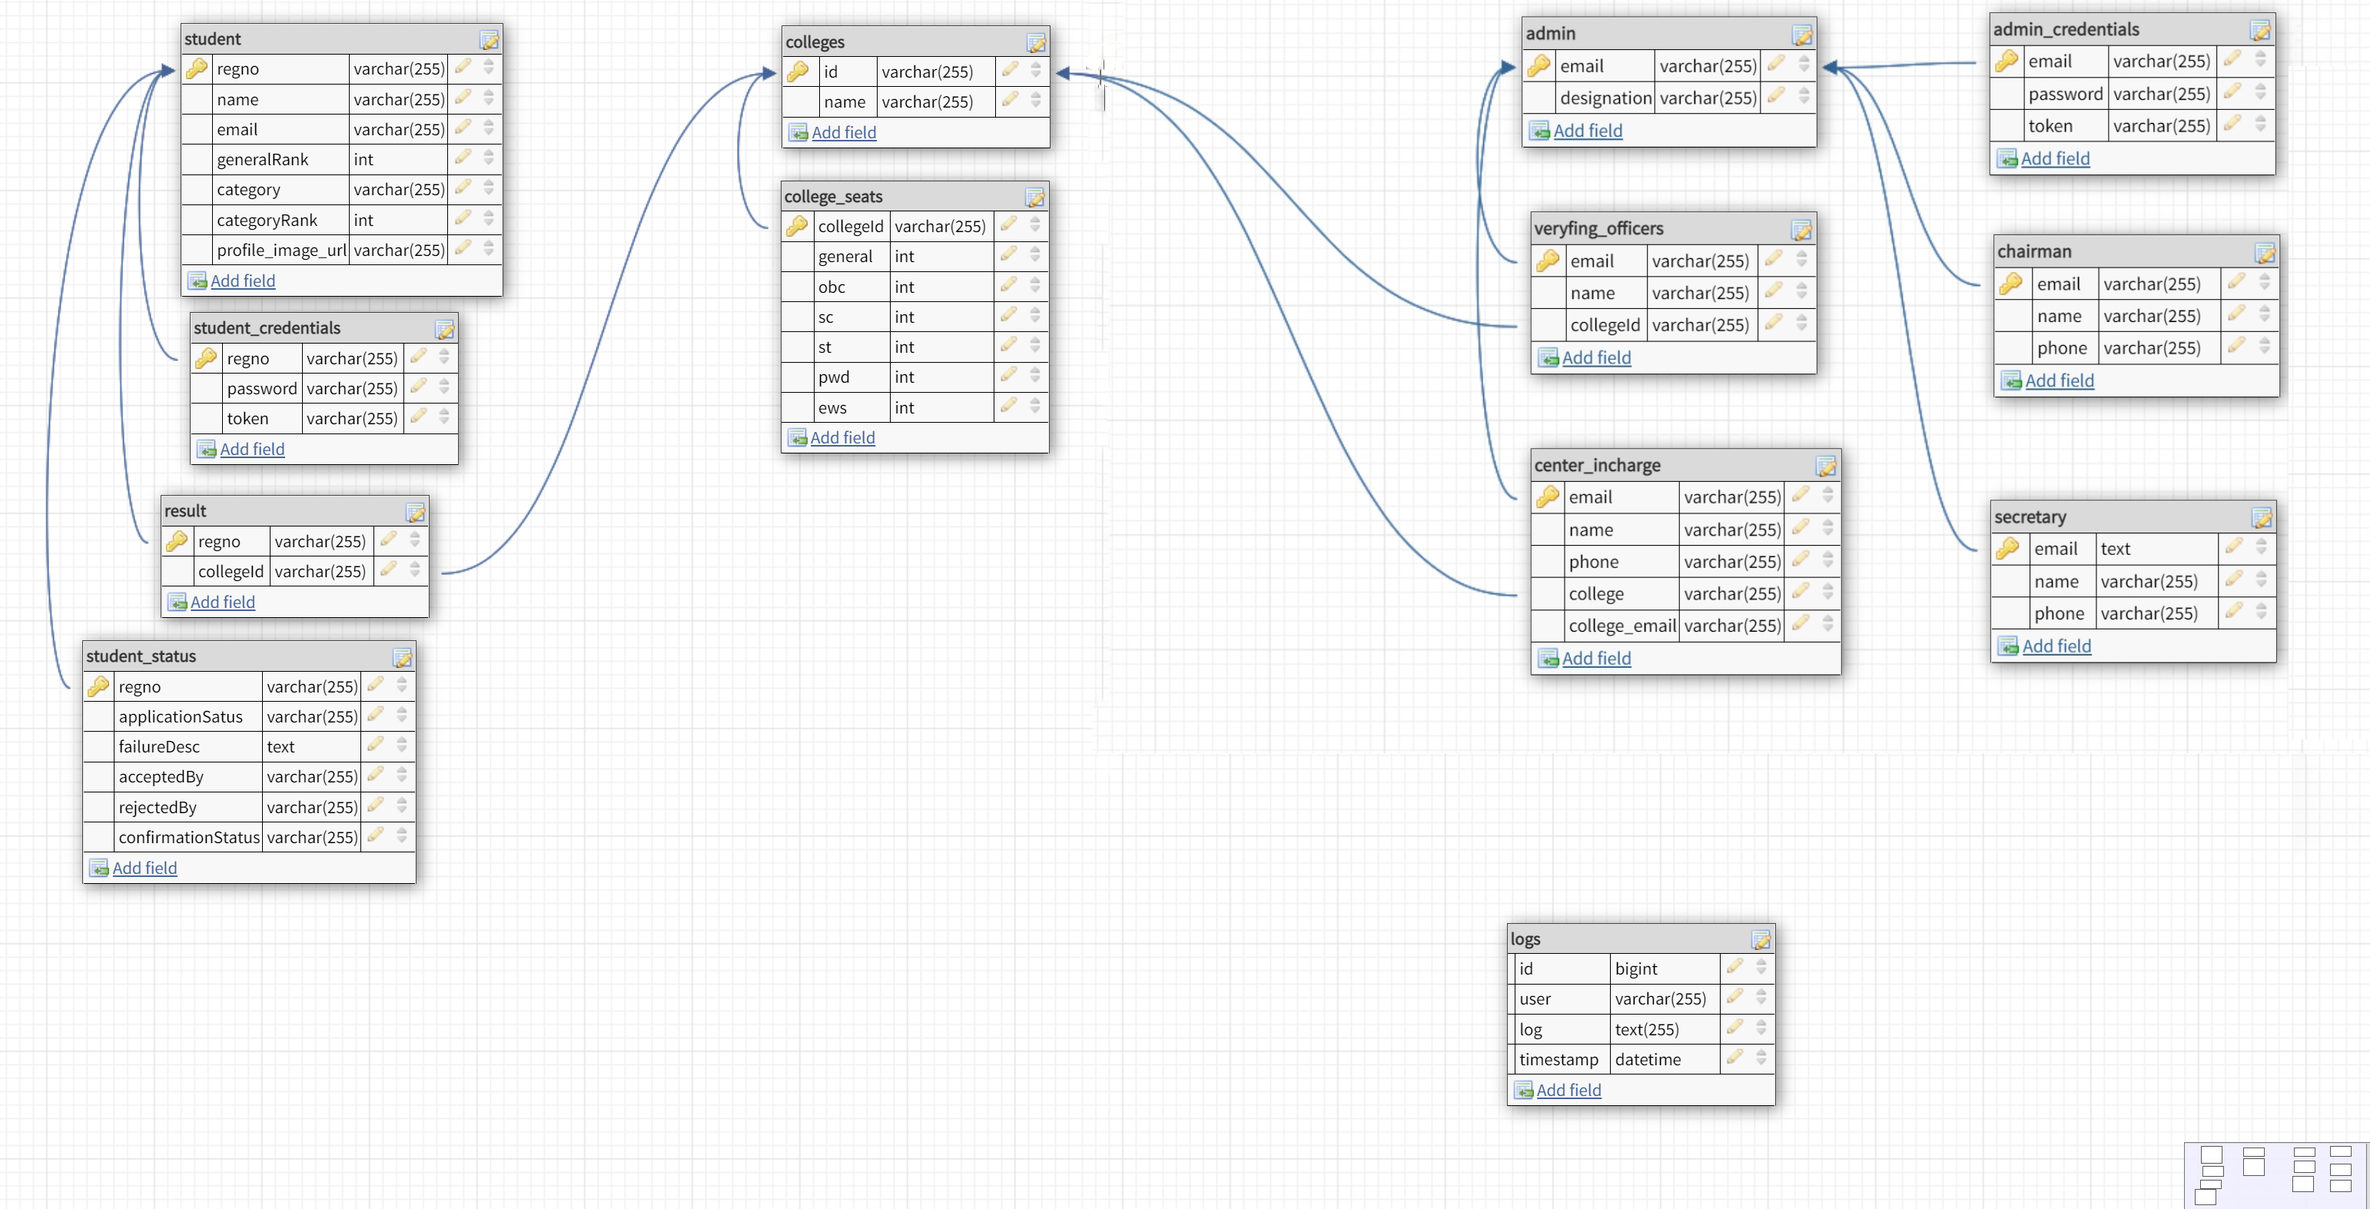
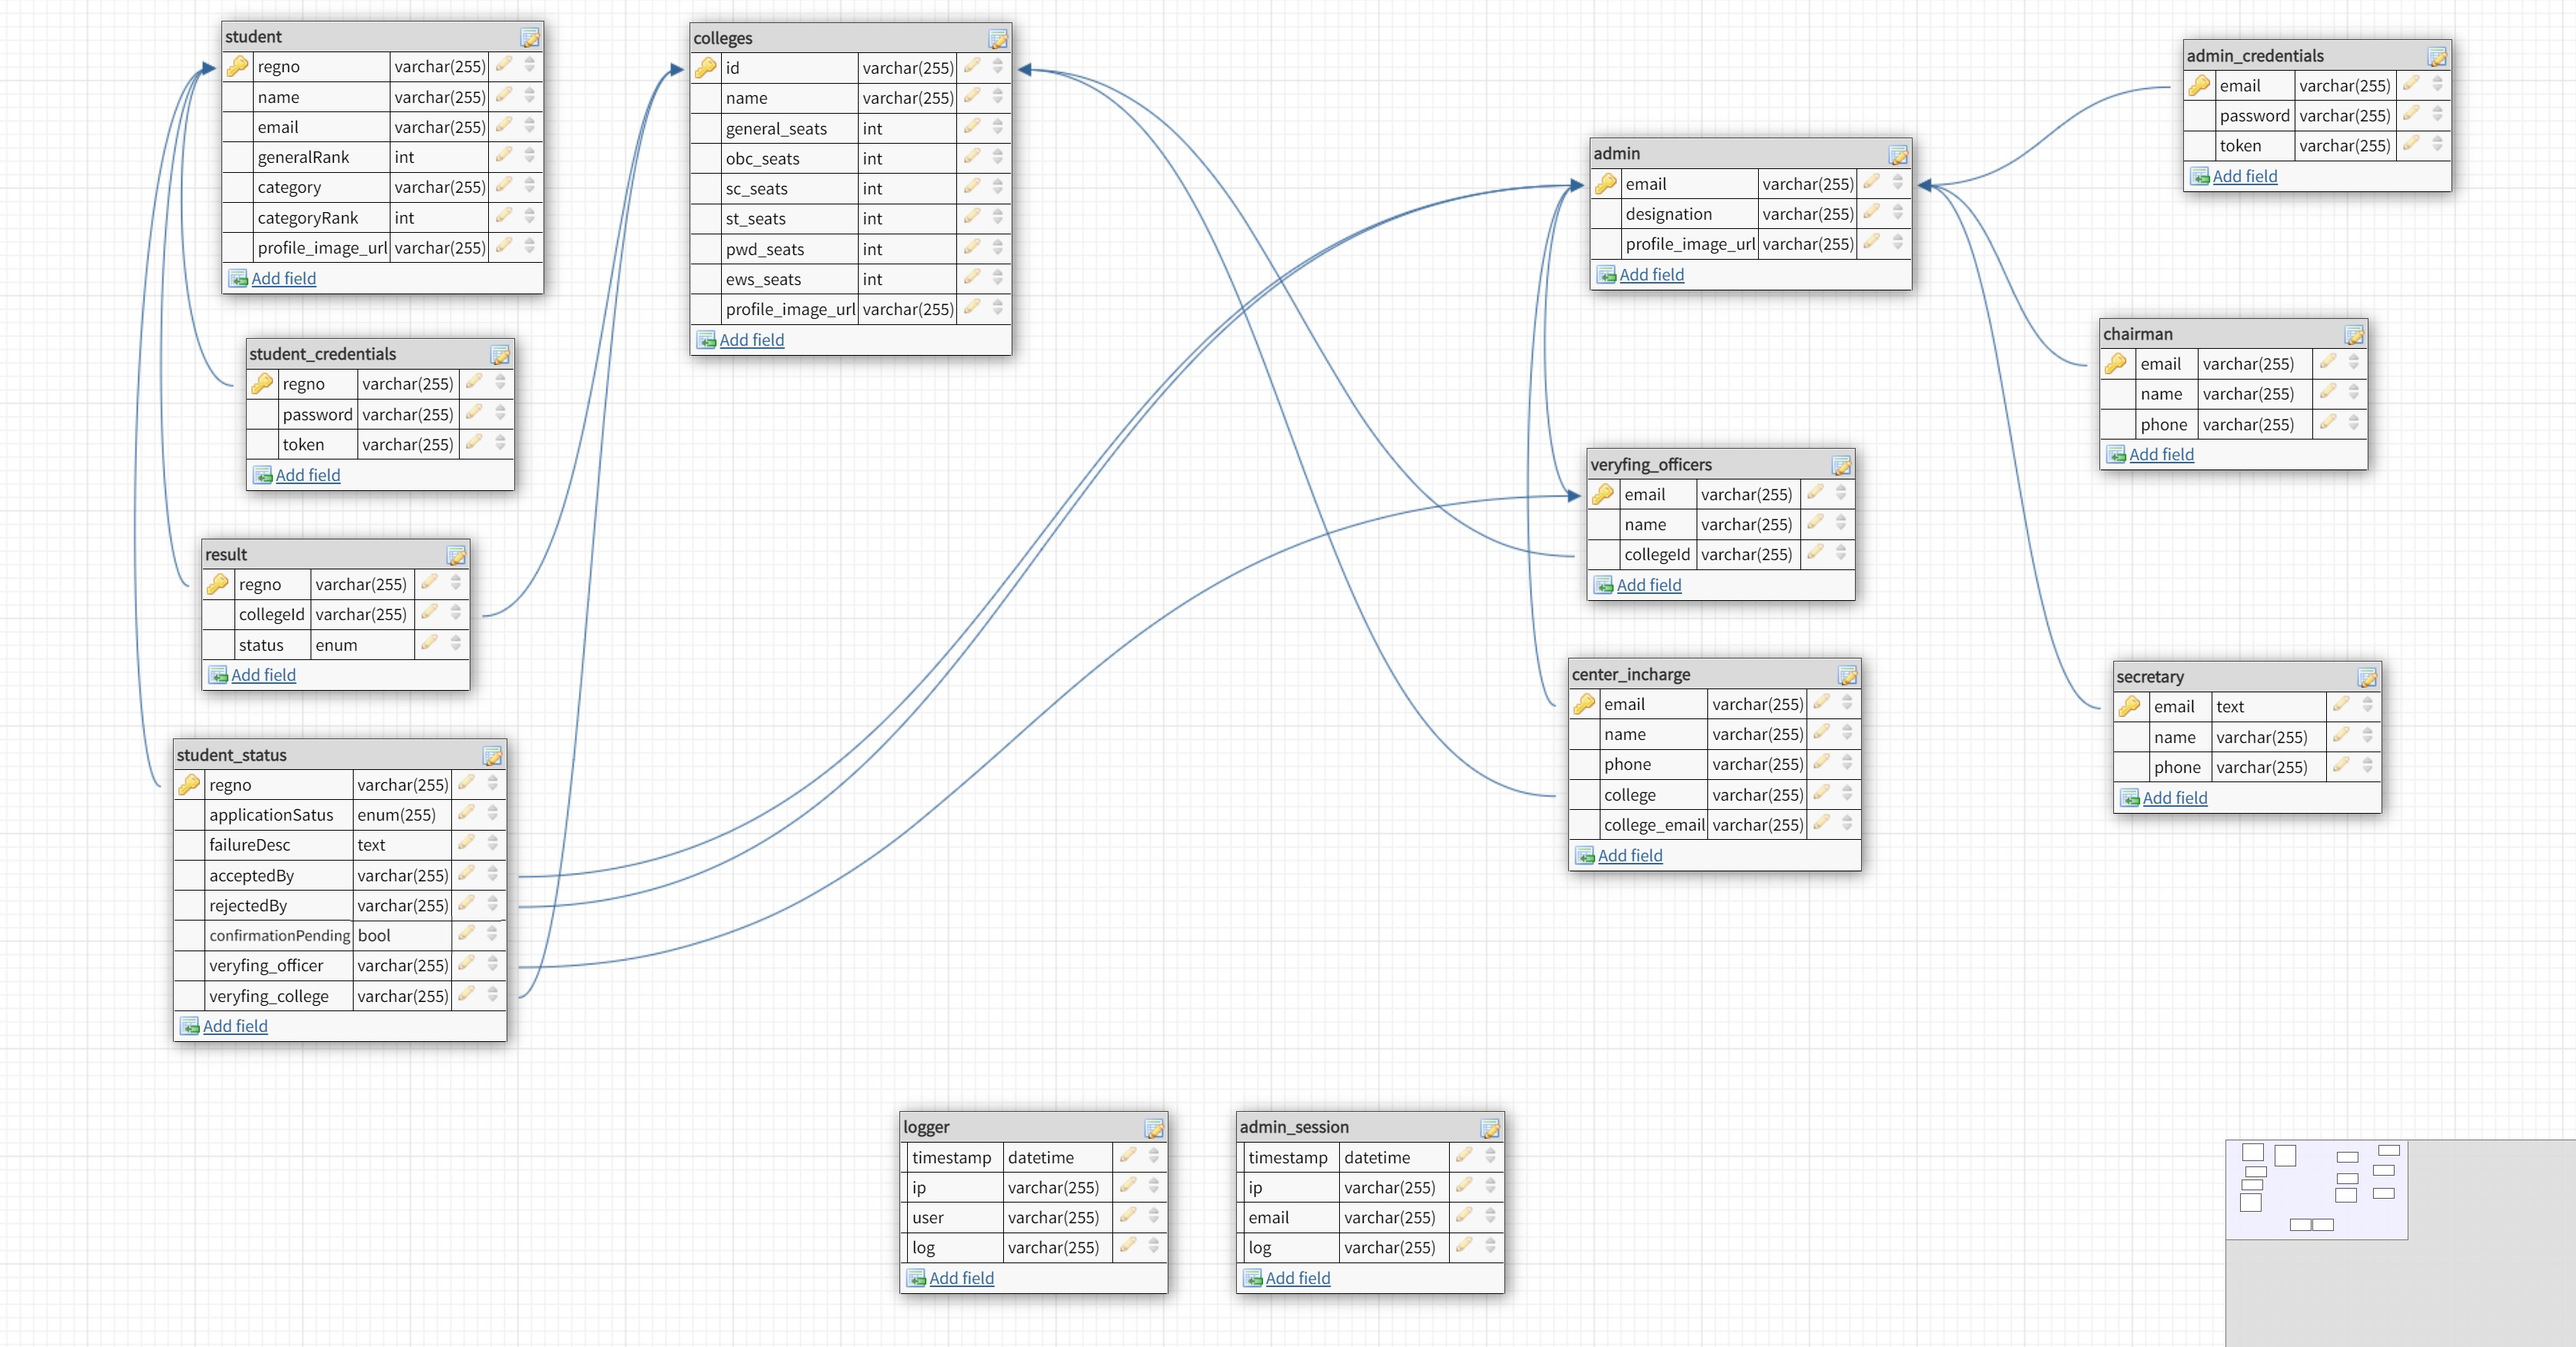
changes to student db

diff --git a/helpers/dbinit.js b/helpers/dbinit.js
@@ -4,61 +4,71 @@ const INITIALIZE_DATABASE = async () => {
   const dbInitQuery = `
 USE ${process.env.DB_USER};
 
+use u298279946_nitJsrNimcet;
+
+SET FOREIGN_KEY_CHECKS = 0;
+drop table if exists admin;
+drop table if exists admin_credentials;
+drop table if exists admin_session;
+drop table if exists logger;
+drop table if exists center_incharge;
+drop table if exists chairman;
+drop table if exists colleges;
+drop table if exists result;
+drop table if exists secretary;
+drop table if exists student;
+drop table if exists student_credentials;
+drop table if exists student_status;
+drop table if exists verifying_officers;
+SET FOREIGN_KEY_CHECKS = 1;
+
+CREATE TABLE admin_credentials (
+	email varchar(255) NOT NULL ,
+	password varchar(255) NOT NULL,
+	token varchar(255) NOT NULL,
+	PRIMARY KEY (email)
+);
+
 CREATE TABLE chairman (
 	email varchar(255) NOT NULL,
 	name varchar(255) NOT NULL,
 	phone varchar(255) NOT NULL,
-    profile_image_url varchar(255),
-	PRIMARY KEY (email)
-);
-
-CREATE TABLE secretary (
-	email varchar(255) NOT NULL,
-	name varchar(255) NOT NULL,
-	phone varchar(255) NOT NULL,
-    profile_image_url varchar(255),
 	PRIMARY KEY (email)
 );
 
 CREATE TABLE center_incharge (
-	email varchar(255) NOT NULL,
+	email varchar(255) NOT NULL ,
 	name varchar(255) NOT NULL,
 	phone varchar(255) NOT NULL,
-	collegeId varchar(255) NOT NULL UNIQUE,
-	college_email varchar(255) UNIQUE,
-    profile_image_url varchar(255),
+	college varchar(255) NOT NULL UNIQUE,
+	college_email varchar(255) NOT NULL UNIQUE,
 	PRIMARY KEY (email)
 );
 
 CREATE TABLE colleges (
 	id varchar(255) NOT NULL,
 	name varchar(255) NOT NULL,
-    profile_image_url varchar(255),
-	PRIMARY KEY (id)
-);
-
-CREATE TABLE college_seats (
-	collegeId varchar(255) NOT NULL ,
 	general int NOT NULL,
 	obc int NOT NULL,
 	sc int NOT NULL,
 	st int NOT NULL,
 	pwd int NOT NULL,
 	ews int NOT NULL,
-	PRIMARY KEY (collegeId)
+	profile_image_url varchar(255) NOT NULL,
+	PRIMARY KEY (id)
 );
 
 CREATE TABLE verifying_officers (
 	email varchar(255) NOT NULL,
 	name varchar(255) NOT NULL,
 	collegeId varchar(255) NOT NULL UNIQUE,
-    profile_image_url varchar(255),
 	PRIMARY KEY (email)
 );
 
 CREATE TABLE admin (
 	email varchar(255) NOT NULL,
 	designation varchar(255) NOT NULL,
+	profile_image_url varchar(255),
 	PRIMARY KEY (email)
 );
 
@@ -67,9 +77,28 @@ CREATE TABLE student (
 	name varchar(255) NOT NULL,
 	email varchar(255) NOT NULL UNIQUE,
 	generalRank int NOT NULL,
-	category varchar(255),
+	category enum('obc', 'sc', 'st', 'pwd', 'ews'),
 	categoryRank int,
 	profile_image_url varchar(255),
+	PRIMARY KEY (regno)
+);
+
+CREATE TABLE result (
+	regno varchar(255) NOT NULL,
+	collegeId varchar(255) NOT NULL,
+	status enum ('accepted', 'rejected', 'pending') NOT NULL,
+	PRIMARY KEY (regno)
+);
+
+CREATE TABLE student_status (
+	regno varchar(255) NOT NULL,
+	applicationSatus enum('pending', 'verified', 'rejected') NOT NULL,
+	failureDesc TEXT,
+	acceptedBy varchar(255),
+	rejectedBy varchar(255),
+	confirmationPending bool,
+	verifying_officer varchar(255) ,
+	verifying_college varchar(255) ,
 	PRIMARY KEY (regno)
 );
 
@@ -80,85 +109,63 @@ CREATE TABLE student_credentials (
 	PRIMARY KEY (regno)
 );
 
-CREATE TABLE student_status (
-	regno varchar(255) NOT NULL,
-	applicationStatus varchar(255) NOT NULL,
-	failureDesc varchar(255) ,
-	acceptedBy varchar(255) ,
-	rejectedBy varchar(255),
-	confirmationStatus varchar(255) ,
-	PRIMARY KEY (regno)
-);
-
-CREATE TABLE result (
-	regno varchar(255) NOT NULL,
-	collegeId varchar(255) NOT NULL,
-	PRIMARY KEY (regno)
-);
-
-CREATE TABLE admin_logs (
+CREATE TABLE secretary (
 	email varchar(255) NOT NULL,
-	log TEXT(255) NOT NULL,
-	timestamp DATETIME NOT NULL,
-    PRIMARY KEY (email)
-);
-
-CREATE TABLE admin_credentials (
-	email varchar(255) NOT NULL,
-	password varchar(255) NOT NULL,
-	token varchar(255) NOT NULL,
+	name varchar(255) NOT NULL,
+	phone varchar(255) NOT NULL,
 	PRIMARY KEY (email)
 );
 
+CREATE TABLE logger (
+	timestamp DATETIME NOT NULL,
+	ip varchar(255) NOT NULL,
+	log varchar(255) NOT NULL,
+	user varchar(255) NOT NULL,
+	PRIMARY KEY (user)
+);
+
+CREATE TABLE admin_session (
+	timestamp DATETIME NOT NULL,
+	ip varchar(255) NOT NULL,
+	log varchar(255) NOT NULL,
+	email varchar(255) NOT NULL,
+	PRIMARY KEY (email)
+);
+
+ALTER TABLE admin_credentials ADD CONSTRAINT admin_credentials_fk0 FOREIGN KEY (email) REFERENCES admin(email) ON DELETE CASCADE;
+
 ALTER TABLE chairman ADD CONSTRAINT chairman_fk0 FOREIGN KEY (email) REFERENCES admin(email) ON DELETE CASCADE;
-
-ALTER TABLE secretary ADD CONSTRAINT secretary_fk0 FOREIGN KEY (email) REFERENCES admin(email) ON DELETE CASCADE;
-
-ALTER TABLE student_status ADD CONSTRAINT student_status_fk0 FOREIGN KEY (regno) REFERENCES student(regno) ON DELETE CASCADE;
-
-ALTER TABLE student_credentials ADD CONSTRAINT student_credentials_fk0 FOREIGN KEY (regno) REFERENCES student(regno) ON DELETE CASCADE;
 
 ALTER TABLE center_incharge ADD CONSTRAINT center_incharge_fk0 FOREIGN KEY (email) REFERENCES admin(email) ON DELETE CASCADE;
 
-ALTER TABLE center_incharge ADD CONSTRAINT center_incharge_fk1 FOREIGN KEY (collegeId) REFERENCES colleges(id) ON DELETE CASCADE;
+ALTER TABLE center_incharge ADD CONSTRAINT center_incharge_fk1 FOREIGN KEY (college) REFERENCES colleges(id) ON DELETE CASCADE;
 
-ALTER TABLE college_seats ADD CONSTRAINT college_seats_fk0 FOREIGN KEY (collegeId) REFERENCES colleges(id) ON DELETE CASCADE;
+ALTER TABLE verifying_officers ADD CONSTRAINT verifying_officers_fk0 FOREIGN KEY (email) REFERENCES admin(email) ON DELETE CASCADE;
 
-ALTER TABLE verifying_officers ADD CONSTRAINT verifying_officers_fk0 FOREIGN KEY (email) REFERENCES admin(email)ON DELETE CASCADE;
+ALTER TABLE verifying_officers ADD CONSTRAINT verifying_officers_fk1 FOREIGN KEY (collegeId) REFERENCES colleges(id) ON DELETE CASCADE;
 
-ALTER TABLE verifying_officers ADD CONSTRAINT verifying_officers_fk1 FOREIGN KEY (collegeId) REFERENCES colleges(id)ON DELETE CASCADE;
+ALTER TABLE result ADD CONSTRAINT result_fk0 FOREIGN KEY (regno) REFERENCES student(regno) ON DELETE CASCADE;
 
-ALTER TABLE result ADD CONSTRAINT result_fk0 FOREIGN KEY (regno) REFERENCES student(regno)ON DELETE CASCADE;
+ALTER TABLE result ADD CONSTRAINT result_fk1 FOREIGN KEY (collegeId) REFERENCES colleges(id) ON DELETE CASCADE;
 
-ALTER TABLE result ADD CONSTRAINT result_fk1 FOREIGN KEY (collegeId) REFERENCES colleges(id)ON DELETE CASCADE;
+ALTER TABLE student_status ADD CONSTRAINT student_status_fk0 FOREIGN KEY (regno) REFERENCES student(regno) ON DELETE CASCADE;
 
-ALTER TABLE admin_credentials ADD CONSTRAINT admin_credentials_fk0 FOREIGN KEY (email) REFERENCES admin(email)ON DELETE CASCADE;
+ALTER TABLE student_status ADD CONSTRAINT student_status_fk1 FOREIGN KEY (acceptedBy) REFERENCES admin(email) ON DELETE SET NULL;
 
-ALTER TABLE admin_logs ADD CONSTRAINT admin_fk0 FOREIGN KEY (email) REFERENCES admin(email);
-`;
-  const dbDeleteQuery = `
-USE ${process.env.DB_USER};
+ALTER TABLE student_status ADD CONSTRAINT student_status_fk2 FOREIGN KEY (rejectedBy) REFERENCES admin(email) ON DELETE SET NULL;
 
-SET FOREIGN_KEY_CHECKS = 0;
-drop table if exists admin;
-drop table if exists admin_credentials;
-drop table if exists admin_logs;
-drop table if exists center_incharge;
-drop table if exists chairman;
-drop table if exists college_seats;
-drop table if exists colleges;
-drop table if exists result;
-drop table if exists secretary;
-drop table if exists student;
-drop table if exists student_credentials;
-drop table if exists student_status;
-drop table if exists verifying_officers;
-SET FOREIGN_KEY_CHECKS = 1;
+ALTER TABLE student_status ADD CONSTRAINT student_status_fk3 FOREIGN KEY (verifying_officer) REFERENCES verifying_officers(email) ON DELETE SET NULL;
+
+ALTER TABLE student_status ADD CONSTRAINT student_status_fk4 FOREIGN KEY (verifying_college) REFERENCES colleges(id) ON DELETE SET NULL;
+
+ALTER TABLE student_credentials ADD CONSTRAINT student_credentials_fk0 FOREIGN KEY (regno) REFERENCES student(regno) ON DELETE CASCADE;
+
+ALTER TABLE secretary ADD CONSTRAINT secretary_fk0 FOREIGN KEY (email) REFERENCES admin(email) ON DELETE CASCADE;
+
 `;
   let result = { success: false, message: "" };
   try {
     console.log("Clearing Database...");
-    await db.queryAsync(dbDeleteQuery);
     console.log("Initializing Database...");
     await db.queryAsync(dbInitQuery);
     console.log("Database Initialized Successfully!!");
@@ -175,7 +182,7 @@ module.exports = INITIALIZE_DATABASE;
 
 // try {
 //   const result = await INITIALIZE_DATABASE();
-//   if (result.success) res.send("login");
+//   if (result.success) res.send("success");
 //   else res.send(result.message);
 // } catch (err) {
 //   res.status(500).send({
